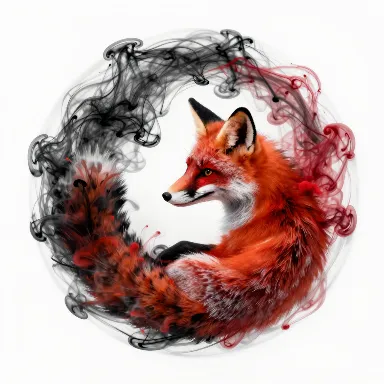
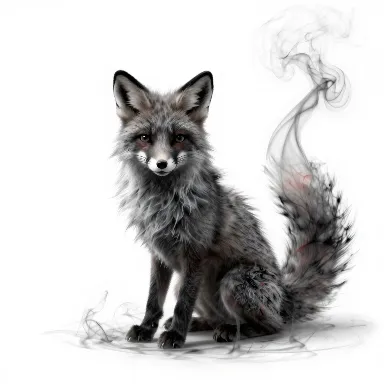
The black smoke fox, and mirage on the runtime's imagejob
The mascot's final identity (owner): one character — a small fox of black smoke; each theme only lights her its own way. All five picker thumbs regenerated under the strict contract (the loose wording let lum render a red fox). mirage drops its local race.js for /_rt/imagejob.js (ext derived from the blob at the slide, eSignIn wired in both locales).

diff --git a/apps/mirage/state.js b/apps/mirage/state.js
@@ -10,8 +10,8 @@ import { toEnglish } from "/_rt/translate.js";
 import { writeLastGen } from "/_rt/lastgen.js";
 import { notify, notifyAsk } from "/_rt/notify.js";
 import { holdBackground } from "/_rt/bghold.js";
-import { mockArt, toDataURL } from "./bitmap.js";
-import { startJob, follow, cancelJob } from "./race.js";
+import { mockArt, toDataURL, extOf } from "./bitmap.js";
+import { startJob, follow, cancelJob } from "/_rt/imagejob.js";
 import { styleOf } from "./styles.js";
 
 export const MODES = ["make", "edit", "read", "blend", "style"];
@@ -113,7 +113,9 @@ async function followJob(mode, job, run, ctx, seed) {
     base, job, alive,
     onLive: (live) => patch(mode, { live }),
     onSlide: (s) => {
-      mine.push({ ...s, seed: seed + s.n });
+      // the runtime's imagejob (core 1.2.8) replaced the local race.js; it hands the blob instead of an
+      // ext, and the blob must not live on in the slide — the object URL already keeps the bytes reachable
+      mine.push({ url: s.url, w: s.w, h: s.h, by: s.by, n: s.n, ext: extOf(s.blob), seed: seed + s.n });
       patch(mode, { slides: [...mine], more: true, ...(mine.length === 1 ? { idx: 0, phase: "done" } : {}) });
       if (mine.length === 1) {
         if (mode === "make") writeLastGen(s.url, $make.get().prompt).catch(() => {});

diff --git a/apps/mirage/sw.js b/apps/mirage/sw.js
@@ -3,7 +3,7 @@
 // /_rt/sw-core.js. `precache` is this app's shell — enough to boot with the network unplugged.
 self.MS = {
   app: "mirage",
-  version: "95ce3f6ecd",
+  version: "935c683bee",
   precache: [
     "./",
     "./bitmap.js",
@@ -16,7 +16,6 @@ self.MS = {
     "./lightbox.js",
     "./manifest.json",
     "./mirage.frag",
-    "./race.js",
     "./source.js",
     "./spec.json",
     "./state.js",
@@ -42,6 +41,7 @@ self.MS = {
     "/_rt/glstage.js",
     "/_rt/hero.js",
     "/_rt/i18n.js",
+    "/_rt/imagejob.js",
     "/_rt/index.js",
     "/_rt/lastgen.js",
     "/_rt/material.js",

diff --git a/docs/research/mascot.md b/docs/research/mascot.md
@@ -1,10 +1,30 @@
-# The mascot — a feline that does not exist (2026-09-01: Kotyk-Zirka shipped, then the FOX won)
+# The mascot — THE BLACK SMOKE FOX («чорна димова лисичка», owner 2026-09-02)
 
-**Final decision, the same evening: mirage's curled fox.** The owner saw the cat in the picker and
-preferred the fox from mirage's style cards ("мені вона більше подобається"), so the picker's pictures are
+**Final identity: one character — a small fox of black smoke.** Not a material-shifting shape (the cat,
+then mirage's per-material fox, both retired): she IS black smoke, and each theme only lights her its own
+way. The prompt contract (validated on the pods; the loose first cut let lum render a RED fox — the
+"sculpted ONLY from black smoke, dark charcoal monochrome body, no fur texture, no orange" wording is what
+holds her identity):
+
+    a small fox sculpted ONLY from black smoke, dark charcoal monochrome body, no fur texture, no orange,
+    frozen mid-swirl, fine volumetric tendrils, the smoke itself forms the fox, no real fox, sitting curled
+    with a long flowing smoke tail, calm, full body, centred, plenty of empty space around it, no text
+    + the theme's light: lum "on pure black, faint warm amber gold and electric cyan sparks WITHIN the
+    smoke" · paper "on pure white paper, charcoal ink-smoke, gilded gold edge glints" · ink "blooming like
+    ink in clear water on pure white, fine vermilion wisps" · mercury "on pure black, cold silver glints,
+    droplets of liquid chrome caught in the smoke" · plain "plain dark grey studio, neutral grey-black smoke"
+
+Picker thumbs cut by `mascot-tools/fox-thumbs.mjs` (2026-09-02 picks: lum c · paper a · ink a · mercury a ·
+plain b). She is also the face of empty states and the store's hero (the `--ds-mascot` hook). History below.
+
+---
+
+# (history) 2026-09-01: Kotyk-Zirka shipped, then the material fox
+
+**That evening: mirage's curled fox.** The owner saw the cat in the picker and
+preferred the fox from mirage's style cards ("мені вона більше подобається"), so the picker's pictures were
 the fox masters mirage already had (lum, paper, ink, chrome → mercury) plus a clay fox for Просто, cut by
-`docs/research/mascot-tools/fox-thumbs.mjs`. The fox prompt, for the next material: "a fox curled into a
-circle, <material block>, the <material> itself forms the fox, no real fox". Kotyk-Zirka stays below as a
+`docs/research/mascot-tools/fox-thumbs.mjs`. Kotyk-Zirka stays below as a
 record; nothing in the product references it.
 
 ---
